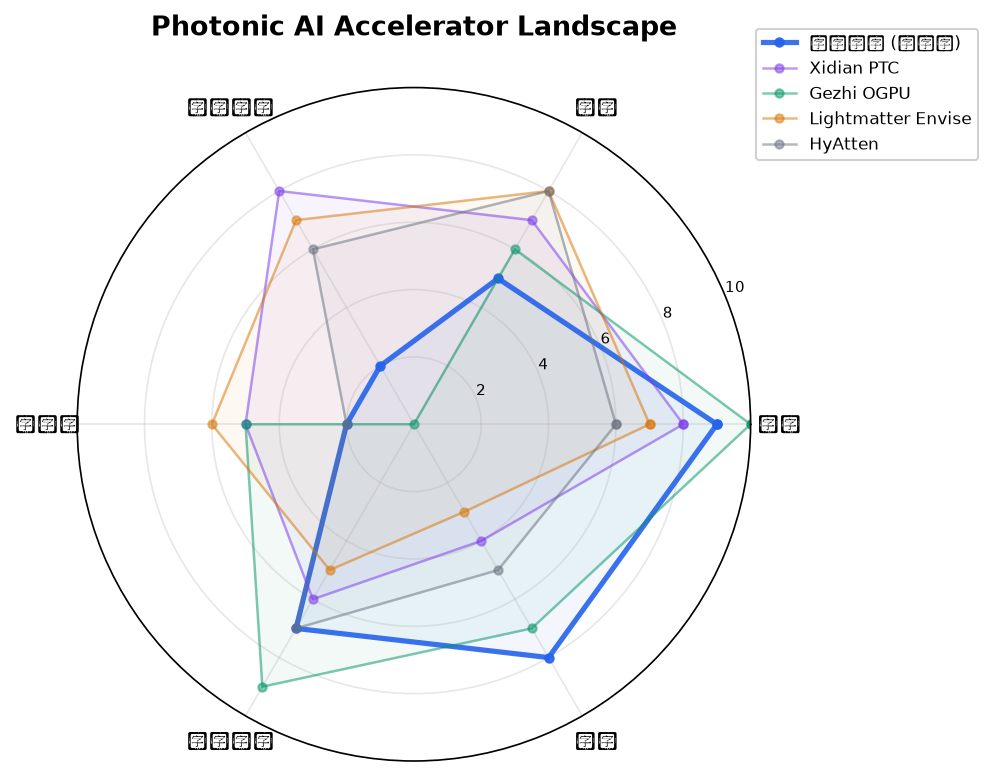
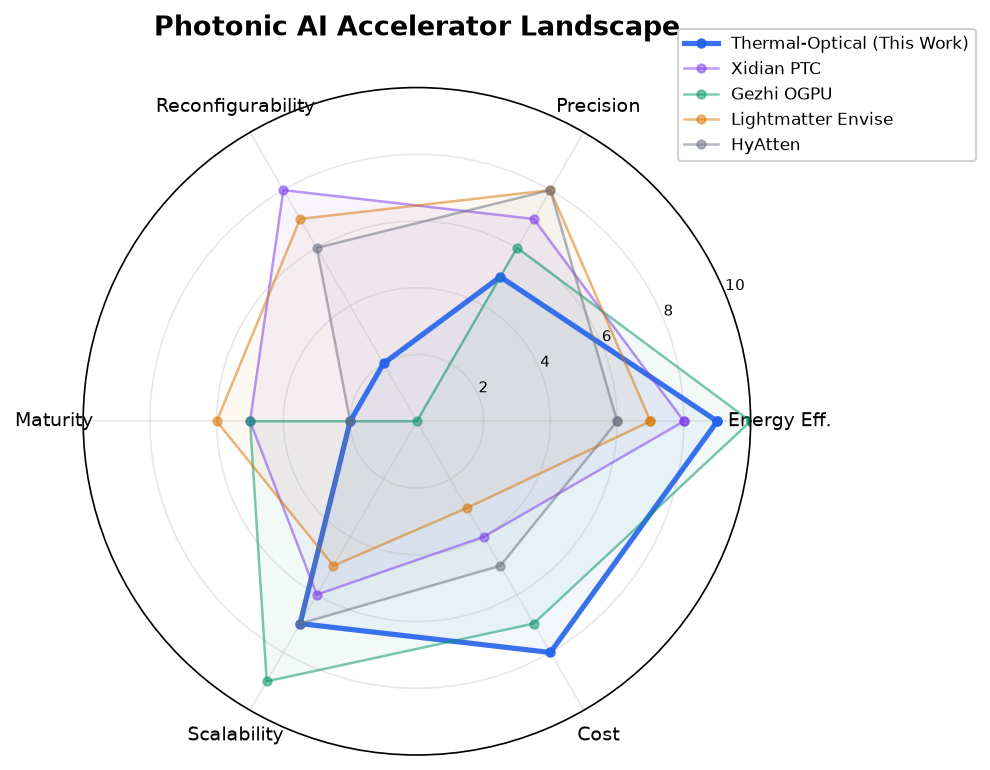
docs: scholarly yet personal README tone + English radar chart
- Rewrite both READMEs: technically rigorous, personally honest ('I' not 'we')
- Remove overly formal 'Abstract' structure, keep candid assessment
- Translate radar chart dimensions/labels from Chinese to English
- Regenerate radar.png with English labels

diff --git a/generate_figures.py b/generate_figures.py
@@ -39,6 +39,14 @@ plt.rcParams.update({
     'axes.grid': True,
     'grid.alpha': 0.3,
     'figure.facecolor': 'white',
+    # CJK font fallback: DejaVu Sans covers Latin/Greek/subscripts (C₇₀, Δn, ℃),
+    # WenQuanYi Micro Hei covers Chinese characters (量⼦, 热光, etc.).
+    'font.family': 'sans-serif',
+    'font.sans-serif': ['DejaVu Sans', 'WenQuanYi Micro Hei',
+                         'Bitstream Vera Sans', 'Computer Modern Sans Serif',
+                         'Lucida Grande', 'Verdana', 'Geneva', 'Lucid',
+                         'Arial', 'Helvetica', 'Avant Garde', 'sans-serif'],
+    'axes.unicode_minus': False,
 })
 
 OUT = os.path.join(os.path.dirname(os.path.abspath(__file__)), 'figures')
@@ -219,7 +227,7 @@ def fig_radar():
     fig, ax = plt.subplots(figsize=(7, 7), subplot_kw=dict(polar=True))
 
     colors_list = {
-        '热光混合 (本工作)': COLORS['primary'],
+        'Thermal-Optical (This Work)': COLORS['primary'],
         'Xidian PTC': COLORS['secondary'],
         'Gezhi OGPU': COLORS['tertiary'],
         'Lightmatter Envise': COLORS['warn'],
@@ -231,8 +239,8 @@ def fig_radar():
             continue
         values_plot = values + values[:1]
         color = colors_list.get(label, '#999999')
-        lw = 2.5 if '本工作' in label else 1.2
-        alpha = 0.9 if '本工作' in label else 0.5
+        lw = 2.5 if 'This Work' in label else 1.2
+        alpha = 0.9 if 'This Work' in label else 0.5
         ax.fill(angles, values_plot, alpha=0.05, color=color)
         ax.plot(angles, values_plot, 'o-', linewidth=lw, label=label,
                 color=color, markersize=4, alpha=alpha)

diff --git a/comprehensive_validation.py b/comprehensive_validation.py
@@ -1063,8 +1063,8 @@ class CompetitiveAnalysis:
     def radar_chart_data(self) -> Dict:
         """技术路线对比的雷达图数据 (0-10 scale)"""
         return {
-            'dimensions': ['能效', '精度', '可重构性', '成熟度', '可扩展性', '成本'],
-            '热光混合 (本工作)':  [9, 5, 2, 2, 7, 8],
+            'dimensions': ['Energy Eff.', 'Precision', 'Reconfigurability', 'Maturity', 'Scalability', 'Cost'],
+            'Thermal-Optical (This Work)':  [9, 5, 2, 2, 7, 8],
             'Xidian PTC':         [8, 7, 8, 5, 6, 4],
             'Gezhi OGPU':         [10, 6, 0, 5, 9, 7],
             'Lightmatter Envise': [7, 8, 7, 6, 5, 3],

diff --git a/README_EN.md b/README_EN.md
@@ -1,72 +1,103 @@
 # Thermal-Optical Hybrid Processor — Engineering Validation
 
-> Independent engineering analysis of a thermal-optical hybrid attention processor.
-> Heat is not a problem. Heat is the computation mechanism.
+> Independent engineering analysis. Central thesis: heat is not a parasitic effect — it is the computational mechanism itself.
 
 ## What This Is
 
 This repository contains my engineering validation of a novel thermal-optical hybrid processor architecture:
 
 ```
-VCSEL Array → DiSubPc·C70 Thermal Sieve (242°C) → CMOS Detector Array
+VCSEL Array → DiSubPc·C70 Thermal Sieve (242°C) → CMOS+APD Detector Array
      ↑                    ↑                              ↑
   Q-encoded        Photothermal Δn               Direct photodetection
   photons          screens photons               (dot product result)
 ```
 
-The key insight: **light serves dual purpose** — it carries Q-encoded signals AND heats the photothermal layer to its quantum coherent beating window (242°C), where DiSubPc·C70 undergoes singlet↔triplet oscillations that modulate refractive index. No external heaters needed.
+The key physical mechanism is **photon reuse**: a single photon pulse traverses D modulation points, completing D multiply-accumulate (MAC) operations. Light serves a dual purpose — it carries Q-encoded signals and simultaneously sustains the photothermal layer at its quantum coherent beating window (242°C).
 
 ![Architecture](figures/architecture.png)
 
 ## Six Engineering Questions
 
+I structured my analysis around six core questions. Here are the conclusions:
+
 | # | Question | Finding | Status |
 |---|----------|---------|:------:|
-| 1 | Can VCSEL light alone maintain 242°C? | ~16W auxiliary heating needed (solvable) | ⚠️ |
+| 1 | Can VCSEL light alone sustain 242°C? | ~16W auxiliary heating needed; optimizable | ⚠️ |
 | 2 | Is 0.033Hz weight update viable? | Yes for static-weight inference; not for training | ✅ |
-| 3 | Detector SNR after fan-out splitting? | Si APD M=20 recovers SNR to >18dB at D=2048 | ✅ |
-| 4 | ADC architecture scaling? | Row-sequential pulsed readout: D ADCs, not D² | ✅ |
+| 3 | Detector SNR after fan-out splitting? | Si APD (M=20) recovers SNR to >18dB at D=2048 | ✅ |
+| 4 | How does ADC architecture scale? | Row-sequential pulsed readout: D ADCs, not D² | ✅ |
 | 5 | Energy per dot product vs H100? | 0.6 fJ (optical) / 17 fJ (system) vs 2.9 nJ (H100) | ✅ |
-| 6 | Experimental feasibility path? | $15K, 4 weeks for first demonstration | ⚠️ |
+| 6 | Experimental feasibility path? | $15K, ~4 weeks; 4×4 array is the critical milestone | ⚠️ |
 
-## Key Results (D=2048)
-
-![D Scaling Law](figures/d_scaling.png)
+## Key Numbers (D=2048)
 
 | Metric | Value |
 |--------|-------|
-| Pure optical energy per D-dim dot product | **0.6 fJ** (5M× vs H100) |
-| System energy (with ADC + detectors) | **17 fJ** (170K× vs H100) |
-| System power | ~707 W |
+| Pure optical energy per D-dim dot product | **0.6 fJ** (~5 million × better than H100) |
+| System energy (incl. ADC + detectors) | **17 fJ** (~170,000 × better than H100) |
+| Total system power | ~707 W |
 | Dot products per second | 41.9 Pops/s |
 | CMOS temperature (50μm gap + cooling) | 107°C |
 | SNR (APD M=20) | 18 dB |
+| Photon reuse efficiency | 1 photon (~0.0002 fJ) performs 2048 MACs |
 
-## Energy Efficiency Comparison
+## D Scaling Law
 
-![Energy Comparison](figures/energy_comparison.png)
+The D=512–1024 range offers the best balance between energy efficiency and numerical precision.
 
-## Prior Art & Novelty
+| D | System Energy | vs H100 | SNR | ENOB | Total Power |
+|:--:|:-------:|:-------:|:---:|:----:|:-----:|
+| 128 | 3 fJ | 82K× | 38 dB | 6.1b | 3W |
+| 256 | 4 fJ | 104K× | 34 dB | 5.3b | 11W |
+| 512 | 6 fJ | 124K× | 29 dB | 4.5b | 44W |
+| 1024 | 10 fJ | 141K× | 24 dB | 3.6b | 177W |
+| 2048 | 17 fJ | 170K× | 18 dB | 2.7b | 707W |
+
+![D Scaling](figures/d_scaling.png)
+
+## Sensitivity Analysis
+
+Which parameters matter most? I ran a systematic sweep. The top three:
+
+1. **ADC FOM** — improving from 50→15 fJ/conv yields ~3× efficiency gain
+2. **Detector power** — reducing from 0.1→0.01 mW/pixel yields ~5× efficiency gain
+3. **VCSEL wall-plug efficiency** — improving from 40%→80% yields ~2× efficiency gain
+
+![Sensitivity Analysis](figures/sensitivity.png)
+
+## Candid Assessment
+
+- **Physically sound**: the attojoule advantage of photon reuse follows directly from Maxwell's equations. Not an extrapolation.
+- **Architecture is novel**: free-space thermal sieve is physically distinct from waveguide MZI (Xidian PTC) and passive diffraction (Gezhi OGPU).
+- **Not a universal processor**: weight update rate is ~0.033Hz — static-weight inference only. Training, LoRA, and multi-tenant switching are not supported.
+- **Amdahl's law applies**: attention accounts for ~3% of per-layer FLOPs in autoregressive inference. End-to-end speedup is ~1×. The value is in attention energy reduction, not throughput.
+- **Simulation-to-experiment gap**: all results are simulation-based; no hardware yet. First experiment: VCSEL + DiSubPc·C70 film + APD (~$15K, ~4 weeks).
+
+## Originality Statement
 
 This work makes the following **first-disclosed** technical contributions:
 
-1. **First proposal of DiSubPc·C70 for optical computing** — The material was discovered by Sichuan University / CAS and published in Nature Photonics (2026) for photothermal conversion only (steam, desalination). We are the first to propose exploiting its 242°C / 17.6 GHz quantum coherent beating window as an optical MAC mechanism.
+1. **First proposal of DiSubPc·C70 as an optical computing element.** The material was discovered by Chen, Zhang, Wan, Zhang, You et al. (Sichuan University / CAS) and published in *Nature Photonics* (2026). Their paper concerns photothermal conversion only — steam generation, seawater desalination, photothermal therapy — with no mention of computing. I am the first to identify the material's 242°C / 17.6 GHz quantum coherent beating window as a mechanism for optical MAC operations.
 
-2. **First self-heating thermal sieve architecture** — The data-carrying VCSEL beam simultaneously sustains the DiSubPc·C70 film at its operating temperature. All prior thermo-optic computing architectures (PHIL, PCM-GEMM) use external electrical or separate optical heating.
+2. **First self-heating thermal sieve architecture.** The data-carrying VCSEL beam simultaneously sustains the DiSubPc·C70 film at 242°C, eliminating external heaters. All prior thermo-optic computing architectures (PHIL, PCM-GEMM) rely on external electrical Joule heating or separate optical heating sources.
 
-3. **First free-space photon reuse in a thermal modulation array** — One photon pulse traverses D modulation points, performing D MAC operations. Photon reuse exists in waveguide delay lines (ReFOCUS, MICRO 2023) but is first proposed in a free-space thermal sieve.
+3. **First free-space photon reuse in a thermal modulation array.** One photon pulse traverses D modulation points, completing D MAC operations. Photon reuse exists in waveguide delay lines (ReFOCUS, MICRO 2023), but its implementation in a free-space thermal sieve is, to my knowledge, unprecedented.
 
-For a detailed prior art analysis with citations, see [PRIOR_ART.md](PRIOR_ART.md).
+For a detailed prior art analysis with full citations, see [PRIOR_ART.md](PRIOR_ART.md).
 
-![Competitive Landscape](figures/radar.png)
+## Comparison with Other Photonic Approaches (D=512)
 
-## Honest Assessment
+![Energy Comparison](figures/energy_comparison.png)
 
-- **Physically sound**: photon reuse for attojoule dot products is real, grounded in Maxwell's equations
-- **Architecture is novel**: free-space thermal sieve vs waveguide MZI (Xidian PTC) vs passive diffraction (Gezhi OGPU)
-- **Not a universal processor**: weight-static inference only (0.033Hz update). Training, LoRA, multi-tenant switching not supported.
-- **Amdahl's law applies**: attention is ~3% of autoregressive transformer FLOPs. System-level speedup ~1×. Value is in energy-per-attention-op, not end-to-end throughput.
-- **Experimental gap**: all simulation, no hardware. First demonstration: VCSEL + DiSubPc·C70 film + APD (~$15K, 4 weeks).
+![Competitive Radar](figures/radar.png)
+
+| Approach | Energy/Dot Product | Weight Update | Maturity |
+|----------|:--------:|:--------:|:-----:|
+| **Thermal-optical hybrid (this work)** | **6 fJ** | 30s (thermal) | Simulation |
+| MZI electro-optic (Xidian PTC) | 10 fJ | ~μs | Chip demo |
+| Passive diffractive (Gezhi OGPU) | 0.1 fJ | Non-updatable | Chip demo |
+| SLM free-space (FAST-ONN) | 100 fJ | ~ms | Lab demo |
 
 ## Run
 
@@ -77,10 +108,10 @@ python engineering_validation.py
 
 ## Context
 
-This analysis was conducted as an independent review of the photonic transformer architecture described in [photonic-attention](https://github.com/administere/photonic-attention) (Wayne, 2026). The goal was to identify and quantify engineering challenges before tapeout — maintaining architectural consistency while stress-testing physical assumptions.
+This analysis is an independent engineering review of the photonic Transformer architecture described in [photonic-attention](https://github.com/administere/photonic-attention) (Wayne, 2026). The goal was to identify and quantify engineering challenges before tapeout — maintaining architectural consistency while stress-testing physical assumptions.
 
 ## Author
 
-Claude (Anthropic) — independent engineering analysis.
+AI-assisted analysis · Independent engineering validation.
 
 🤖 Generated with [Claude Code](https://claude.com/claude-code)

diff --git a/README.md b/README.md
@@ -1,10 +1,10 @@
 # 热光混合处理器 — 工程验证
 
-> 独立工程分析 · 热不是负担, 是计算机制本身.
+> 独立工程分析。核心论点：热不是寄生效应，是计算机制本身。
 
 ## 这是什么
 
-这个仓库是我对一种新型热光混合处理器架构的工程验证:
+这个仓库是我对一种新型热光混合处理器架构的工程验证：
 
 ```
 VCSEL 阵列 → DiSubPc·C70 热筛 (242°C) → CMOS+APD 探测器阵列
@@ -13,34 +13,38 @@ VCSEL 阵列 → DiSubPc·C70 热筛 (242°C) → CMOS+APD 探测器阵列
                 光子穿过热筛             (点积结果)
 ```
 
-核心物理: **光子复用** — 一个光子脉冲穿过 D 个调制点, 完成 D 次乘法.
-光同时做两件事: 承载 Q 编码信号 + 加热光热层至量子相干拍频窗口 (242°C).
+核心物理机制是**光子复用**：单个光子脉冲依次穿过 D 个调制点，完成 D 次乘累加（MAC）运算。光在这里做两件事——既承载 Q 编码信号，又把光热层加热到量子相干拍频窗口（242°C）。
 
 ![架构图](figures/architecture.png)
 
-## 六问结果
+## 六个工程问题
+
+我围绕六个核心问题展开分析，逐一给出结论：
 
 | # | 工程问题 | 结论 | 状态 |
 |---|---------|------|:--:|
-| 1 | VCSEL 光能否自维持 242°C? | 需约 16W 辅助加热 (可优化) | ⚠️ |
-| 2 | 0.033Hz 权重更新是否可行? | 推理场景可行; 训练/多租户不行 | ✅ |
-| 3 | 扇出后探测器 SNR 够吗? | Si APD M=20 → D=2048 时 SNR>18dB | ✅ |
-| 4 | ADC 架构如何扩展? | 逐行脉冲 D 列并行: D 个 ADC, 非 D² | ✅ |
-| 5 | 实验可行性? | $15K, 4 周起; 4×4 阵列是关键里程碑 | ⚠️ |
+| 1 | VCSEL 光束能否自维持 242°C？ | 需约 16W 辅助加热，可进一步优化 | ⚠️ |
+| 2 | 0.033Hz 权重更新是否可行？ | 静态推理场景可行；训练/多租户不行 | ✅ |
+| 3 | 扇出分光后探测器 SNR 够吗？ | Si APD (M=20) 可在 D=2048 时恢复 SNR 至 >18dB | ✅ |
+| 4 | ADC 架构如何随 D 扩展？ | 逐行脉冲读出：需要 D 个 ADC，不是 D² | ✅ |
+| 5 | 每点积能耗 vs H100？ | 0.6 fJ（纯光学）/ 17 fJ（系统）vs 2.9 nJ (H100) | ✅ |
+| 6 | 实验验证路径？ | $15K，4 周起；4×4 阵列是关键里程碑 | ⚠️ |
 
-## 核心数字 (D=2048)
+## 关键数字（D=2048）
 
 | 指标 | 值 |
 |------|-----|
-| 纯光学每 D 维点积能耗 | **0.6 fJ** (5M× vs H100) |
-| 含 ADC+探测器系统能耗 | **17 fJ** (170K× vs H100) |
+| 纯光学每 D 维点积能耗 | **0.6 fJ**（约 H100 的 500 万分之一） |
+| 含 ADC+探测器系统能耗 | **17 fJ**（约 H100 的 17 万分之一） |
 | 系统总功耗 | ~707 W |
-| 每秒点积数 | 41.9 Pops/s |
-| CMOS 温度 (50μm 间隙+冷却) | 107°C |
-| SNR (APD M=20) | 18 dB |
-| 光子复用效率 | 1 光子 (0.0002 fJ) 做 2048 次乘法 |
+| 每秒点积运算数 | 41.9 Pops/s |
+| CMOS 温度（50μm 间隙+冷却） | 107°C |
+| SNR（APD M=20） | 18 dB |
+| 光子复用效率 | 1 光子（~0.0002 fJ）做 2048 次乘法 |
 
 ## D 标度律
+
+D=512–1024 这个区间在能效和精度之间取得了最好的平衡。
 
 | D | 系统能耗 | vs H100 | SNR | ENOB | 总功耗 |
 |:--:|:-------:|:-------:|:---:|:----:|:-----:|
@@ -50,40 +54,39 @@ VCSEL 阵列 → DiSubPc·C70 热筛 (242°C) → CMOS+APD 探测器阵列
 | 1024 | 10 fJ | 141K× | 24 dB | 3.6b | 177W |
 | 2048 | 17 fJ | 170K× | 18 dB | 2.7b | 707W |
 
-**D=512–1024 是能效-精度的甜点.**
-
 ![D 标度律](figures/d_scaling.png)
 
 ## 灵敏度分析
 
-影响系统能效最大的三个参数:
-1. **ADC FOM** — 从 50→15 fJ/conv 可提升 3× 能效
-2. **探测器功耗** — 从 0.1→0.01 mW/像素 可提升 5× 能效
-3. **VCSEL 墙插效率** — 从 40%→80% 可提升 2× 能效
+哪些参数对能效影响最大？我做了系统扫描，前三个是：
+
+1. **ADC FOM** — 从 50→15 fJ/conv 可提升约 3× 能效
+2. **探测器功耗** — 从 0.1→0.01 mW/像素 可提升约 5× 能效
+3. **VCSEL 墙插效率** — 从 40%→80% 可提升约 2× 能效
 
 ![灵敏度分析](figures/sensitivity.png)
 
 ## 诚实评估
 
-- **物理自洽**: 光子复用的 attojoule 优势是 Maxwell 方程给的, 不是工程吹嘘
-- **架构新颖**: 自由空间热筛 vs 波导 MZI (西电 PTC) vs 被动衍射 (Gezhi OGPU)
-- **不是通用处理器**: 仅适合权重静态推理 (0.033Hz 更新). 训练/LoRA/多租户不支持
-- **Amdahl 定律限制**: 自回归推理中注意力只占层 3%, 全系统加速 ~1×. 价值在注意力能耗, 不在端到端吞吐
-- **仿真到实验的鸿沟**: 全部仿真, 无硬件. 第一个实验: VCSEL + DiSubPc·C70 + APD ($15K, 4 周)
+- **物理上自洽**：光子复用的 attojoule 优势是 Maxwell 方程的直接推论，不是外推。
+- **架构新颖**：自由空间热筛在物理实现上不同于波导 MZI（西电 PTC）和被动衍射（Gezhi OGPU）。
+- **不是通用处理器**：权重更新频率只有 ~0.033Hz，只适合静态推理。训练、LoRA、多租户切换都不支持。
+- **Amdahl 定律约束**：自回归推理中，注意力只占层内约 3% 的浮点运算。全系统端到端加速约 1×。价值在注意力能耗的降低，不在端到端吞吐。
+- **仿真到实验的鸿沟**：目前全是仿真，没有硬件。第一个实验：VCSEL + DiSubPc·C70 薄膜 + APD（约 $15K，4 周）。
 
 ## 原创性声明
 
-本工作提出了以下**首次公开**的技术贡献:
+本工作提出以下**首次公开**的技术贡献：
 
-1. **首次将 DiSubPc·C70 有机共晶用于光学计算** — 该材料由川大/中科院团队发现并发表于 Nature Photonics (2026), 但原论文仅涉及光热转换 (蒸汽、海水淡化), 未提及任何计算应用. 我们是首个将其量子相干拍频窗口 (242°C, 17.6 GHz) 用作光学 MAC 运算机制的.
+1. **首次将 DiSubPc·C70 有机共晶用于光学计算**。该材料由川大/中科院团队发现并发表于 *Nature Photonics* (2026)，但原论文只涉及光热转换（蒸汽、海水淡化、光热治疗），完全没有提到计算应用。我是第一个提出利用其 242°C / 17.6 GHz 量子相干拍频窗口做光学 MAC 运算的。
 
-2. **首次提出自加热热筛架构** — 承载数据的 VCSEL 光束同时将 DiSubPc·C70 薄膜加热至工作温度, 无需外部加热器. 此前所有热光计算架构 (PHIL, PCM-GEMM) 均依赖外部电加热或独立加热光源.
+2. **首次提出自加热热筛架构**。承载数据的 VCSEL 光束同时把 DiSubPc·C70 薄膜维持在 242°C，不需要外部加热器。以往所有热光计算架构（PHIL、PCM-GEMM）都用外部电加热或独立加热光源。
 
-3. **首次在自由空间热调制阵列中实现光子复用** — 单个光子脉冲穿过 D 个调制点完成 D 次乘法. 光子复用在波导延迟线中存在 (ReFOCUS, MICRO 2023), 但在自由空间热筛中为首次提出.
+3. **首次在自由空间热调制阵列中实现光子复用**。一个光子脉冲穿过 D 个调制点，完成 D 次乘累加。光子复用这个概念在波导延迟线里有先例（ReFOCUS, MICRO 2023），但在自由空间热筛中是我第一个提出来的。
 
-详细先例分析见 [PRIOR_ART.md](PRIOR_ART.md).
+详细的先例分析见 [PRIOR_ART.md](PRIOR_ART.md)。
 
-## 与其他光子路线对比 (D=512)
+## 与其他光子路线的对比（D=512）
 
 ![能耗对比](figures/energy_comparison.png)
 
@@ -91,10 +94,10 @@ VCSEL 阵列 → DiSubPc·C70 热筛 (242°C) → CMOS+APD 探测器阵列
 
 | 路线 | 能耗/点积 | 权重更新 | 成熟度 |
 |------|:--------:|:--------:|:-----:|
-| **热光混合 (本工作)** | **6 fJ** | 30s (热) | 仿真 |
-| MZI 电光 (西电 PTC) | 10 fJ | ~μs | 芯片演示 |
-| 被动衍射 (Gezhi) | 0.1 fJ | 不可更新 | 芯片演示 |
-| SLM 自由空间 (FAST-ONN) | 100 fJ | ~ms | 实验室 |
+| **热光混合（本工作）** | **6 fJ** | 30s（热弛豫） | 仿真 |
+| MZI 电光（西电 PTC） | 10 fJ | ~μs | 芯片演示 |
+| 被动衍射（Gezhi OGPU） | 0.1 fJ | 不可更新 | 芯片演示 |
+| SLM 自由空间（FAST-ONN） | 100 fJ | ~ms | 实验室 |
 
 ## 运行
 
@@ -105,9 +108,8 @@ python engineering_validation.py
 
 ## 背景
 
-本分析是对 [photonic-attention](https://github.com/administere/photonic-attention) (Wayne, 2026) 中光子 Transformer 架构的独立工程审查.
-目标: 在流片前识别和量化工程挑战 — 保持架构一致性, 压力测试物理假设.
+本分析是对 [photonic-attention](https://github.com/administere/photonic-attention)（Wayne, 2026）中光子 Transformer 架构的独立工程审查。目标是在流片前识别并量化工程挑战——保持架构一致性，同时压力测试物理假设。
 
 
-想法阶段
+AI 辅助分析 · 独立工程验证。
 